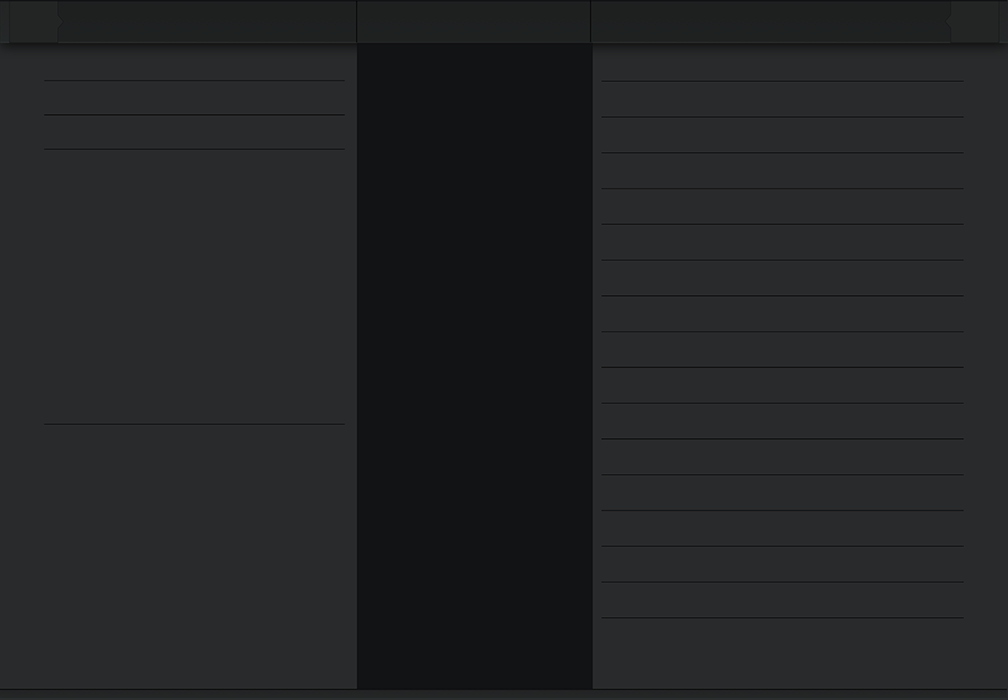
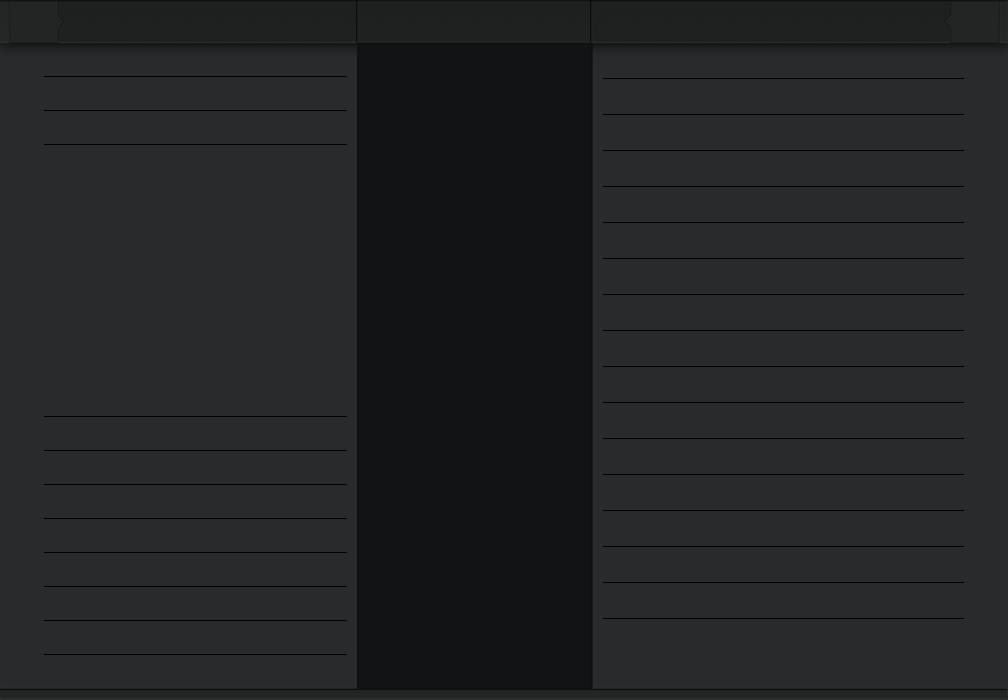
右边

diff --git a/car_audio_effect/car_rightview.cpp b/car_audio_effect/car_rightview.cpp
@@ -1,6 +1,82 @@
+
+#pragma once
+#pragma execution_character_set("utf-8")
 #include "car_rightview.h"
+#include <QLabel>
+#include "fenpinqi_view.h"
+#include "myline_edit.h"
+#include <QDebug>
+#include "common_datasource.h"
 
 car_rightView::car_rightView(QWidget *parent) : QWidget(parent)
 {
 
+}
+void car_rightView::createUI(){
+
+    QVector<QString> mytitles={"分频器","延时","相位","音量(dB)","静音"};
+    for (int i=0;i<mytitles.count();i++) {
+        QLabel *title_label = new QLabel(this);
+        title_label->resize(42,175/4);
+        title_label->move(175/4*i+10,0);
+        title_label->setText(mytitles.at(i));
+        title_label->setStyleSheet("font-size:10px;color:rgb(255,255,255);qproperty-alignment: AlignCenter;font-family:'Source Han Sans CN Medium'");
+
+    }
+
+
+    for (int i=0;i<18;i++) {
+
+        //分频器
+        fenpinqi_view *fenpinView = new fenpinqi_view(this);
+        fenpinView->resize(23,17);
+        fenpinView->move(10,82+9+ (19+17)*i);
+
+        //延时
+        myline_edit *edit = new myline_edit(this);
+        edit->resize(43,17);
+        edit->move(33+27,82+9+i*36);
+        qDebug()<<"xxxx"<<volumes;
+        edit->setText(QString::number(volumes.at(i),10));
+        connect(edit, SIGNAL(block_key_up(int)), this, SLOT(myline_edit_keyup(int)));
+        connect(edit, SIGNAL(block_key_up(int)), this, SLOT(myline_edit_keydown(int)));
+
+//        if(i>2 ){
+//            QPushButton *ch_shuru_btn = new QPushButton(this);
+//            ch_shuru_btn->resize(55,20);
+//            ch_shuru_btn->move(180-22-60,51+i*34);
+//            ch_shuru_btn->setText("前左高频");
+//            ch_shuru_btn->setStyleSheet("color:white;background-color:transparent;border: 2px solid rgb(57,57,57);font-size:9px;font-family:'Source Han Sans CN Medium'");
+//            connect(ch_shuru_btn, SIGNAL(clicked()), this, SLOT(shuru_click()));
+//        }
+
+
+//        QCheckBox *xiangwei_btn = new QCheckBox(this);
+//        xiangwei_btn->resize(20,20);
+//        xiangwei_btn->move(235,51+i*34);
+//        xiangwei_btn->setStyleSheet(
+//                    "QCheckBox::indicator{width:20px;height:20px;color:rgb(255, 0, 0);}"
+//                    "QCheckBox::indicator:unchecked{border-image:url(:images/yinliang_jia.png) 0 140 0 0;}"
+//                    "QCheckBox::indicator:unchecked:hover{border-image:url(:images/yinliang_jia.png) 0 120 0 20;}"
+//                    "QCheckBox::indicator:checked{border-image:url(:images/yinliang_jia.png) 0 60 0 80;}");
+//        connect(xiangwei_btn, SIGNAL(clicked(bool)), this, SLOT(volue_mute_btn_click_status(bool)));
+
+//        QCheckBox *mute_btn = new QCheckBox(this);
+//        mute_btn->resize(20,20);
+//        mute_btn->move(322,51+i*34);
+//        mute_btn->setStyleSheet(
+//                    "QCheckBox::indicator{width:20px;height:20px;color:rgb(255, 0, 0);}"
+//                    "QCheckBox::indicator:unchecked{border-image:url(:images/main_mute.png) 0 140 0 0;}"
+//                    "QCheckBox::indicator:unchecked:hover{border-image:url(:images/main_mute.png) 0 120 0 20;}"
+//                    "QCheckBox::indicator:checked{border-image:url(:images/main_mute.png) 0 60 0 80;}");
+//        connect(mute_btn, SIGNAL(clicked(bool)), this, SLOT(volue_mute_btn_click_status(bool)));
+
+//        myline_edit *edit = new myline_edit(this);
+//        edit->resize(20,20);
+//        edit->move(280,51+i*34);
+//        qDebug()<<"xxxx"<<volumes;
+//        edit->setText(QString::number(volumes.at(i),10));
+//        connect(edit, SIGNAL(block_key_up(int)), this, SLOT(myline_edit_keyup(int)));
+//        connect(edit, SIGNAL(block_key_up(int)), this, SLOT(myline_edit_keydown(int)));
+    }
 }

diff --git a/car_audio_effect/car_mainwondow.cpp b/car_audio_effect/car_mainwondow.cpp
@@ -40,6 +40,13 @@ void car_mainWondow::createUI(){
     m_mid_midView->createUI();
     m_mid_midView->show();
 
+    //右边的视图
+    m_rightView = new car_rightView(this);
+    m_rightView->resize(616,700);
+    m_rightView->move(360+235,23);
+    m_rightView->createUI();
+    m_rightView->show();
+
 
     status = new QStatusBar(this);
 

diff --git a/car_audio_effect/car_rightview.h b/car_audio_effect/car_rightview.h
@@ -1,4 +1,4 @@
-#ifndef CAR_RIGHTVIEW_H
+#ifndef CAR_RIGHTVIEW_H
 #define CAR_RIGHTVIEW_H
 
 #include <QWidget>
@@ -8,6 +8,7 @@ class car_rightView : public QWidget
     Q_OBJECT
 public:
     explicit car_rightView(QWidget *parent = nullptr);
+    void createUI();
 
 signals:
 
